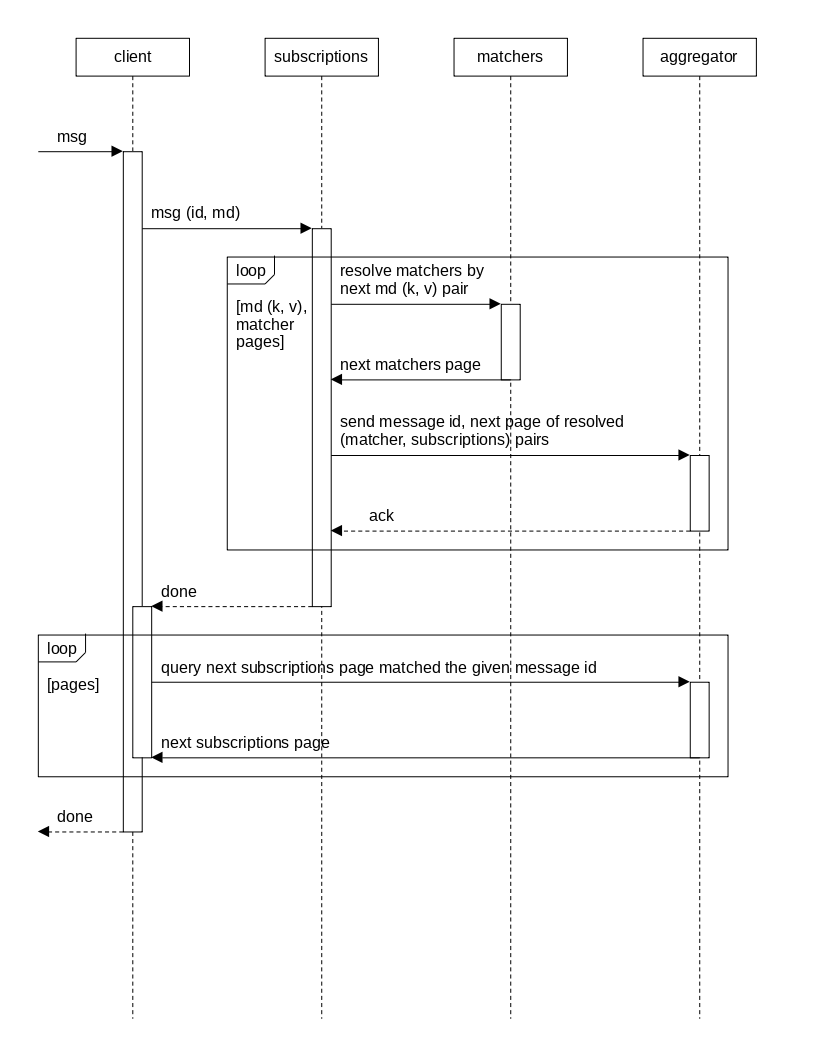
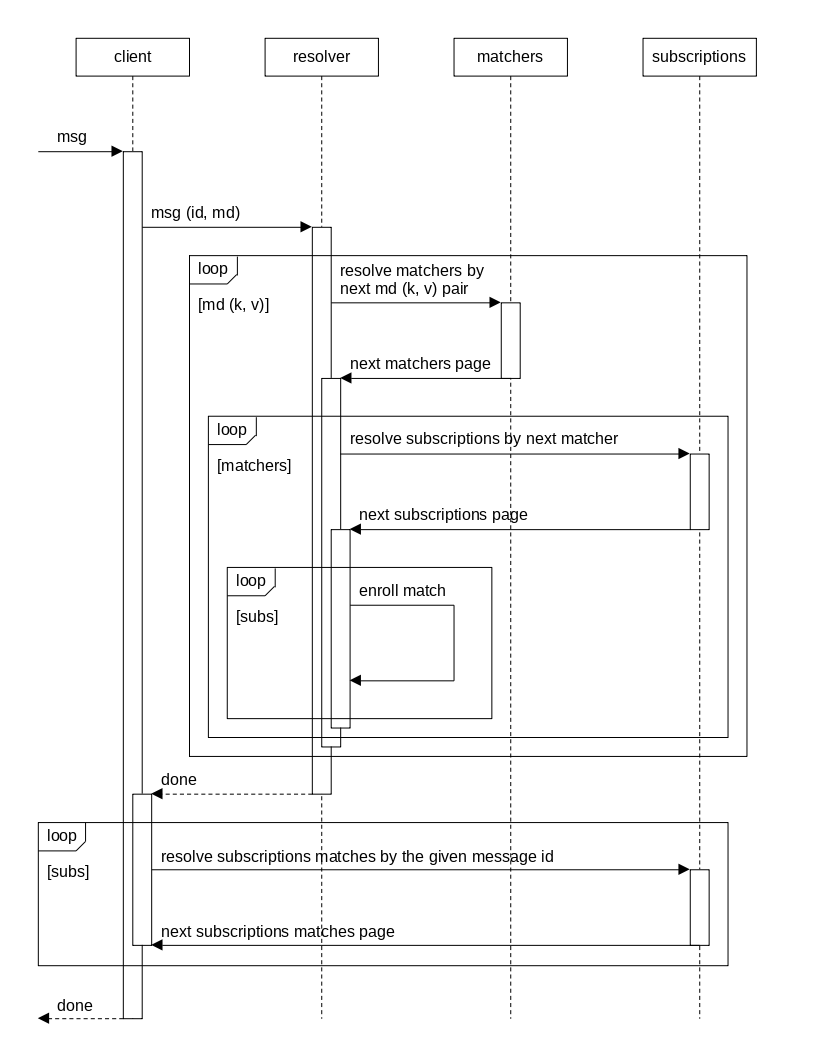
save

diff --git a/profile/README.md b/profile/README.md
@@ -1,3 +1,11 @@
 <img alt="title" height="80" src="title.png"/>
 
+# Scalable wildcard subscription resolution.
+
+Resolution sequence diagram:
+
 ![dia-seq-subscription-resolution](dia-seq-subscription-resolution.png)
+
+The above diagram is simplified, it hides:
+1. message metadata values segmentation and matches against every lexeme
+2. 4 different matchers services - includes/excludes x complete/partial
